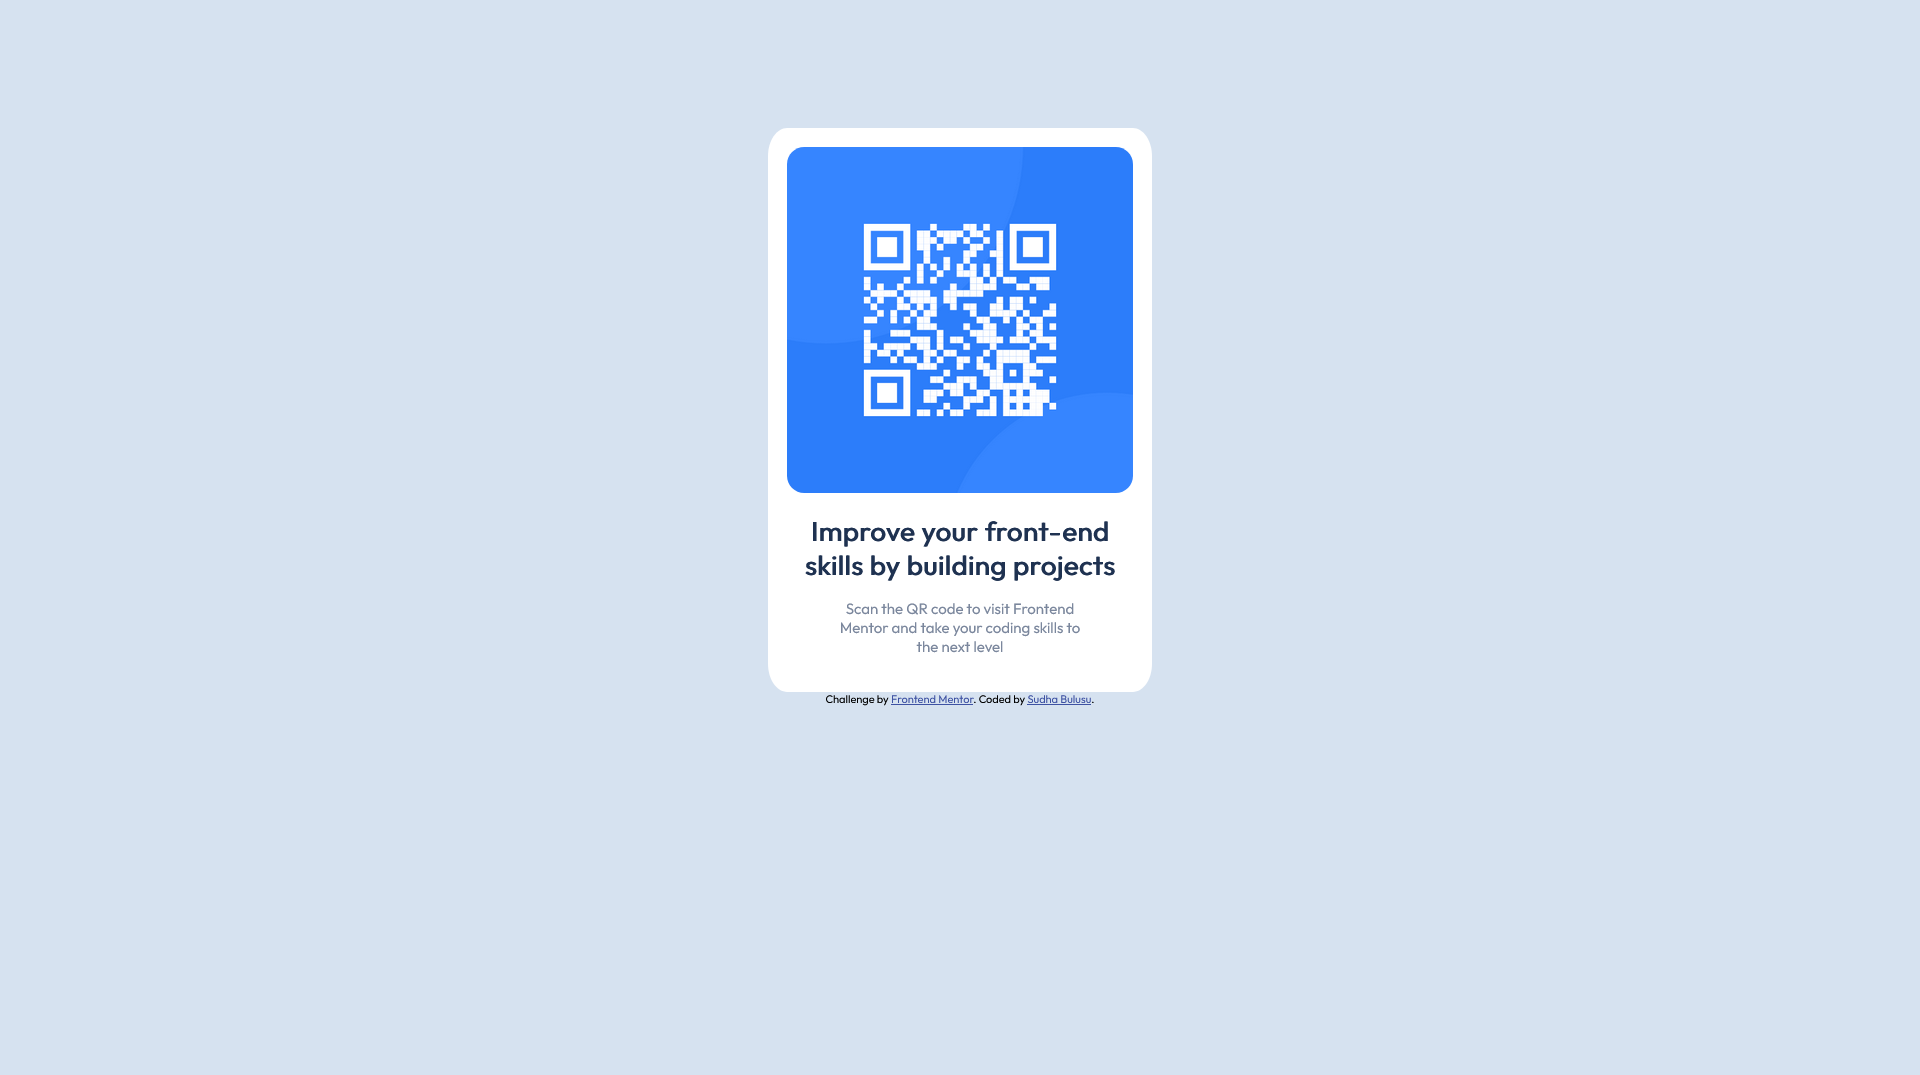
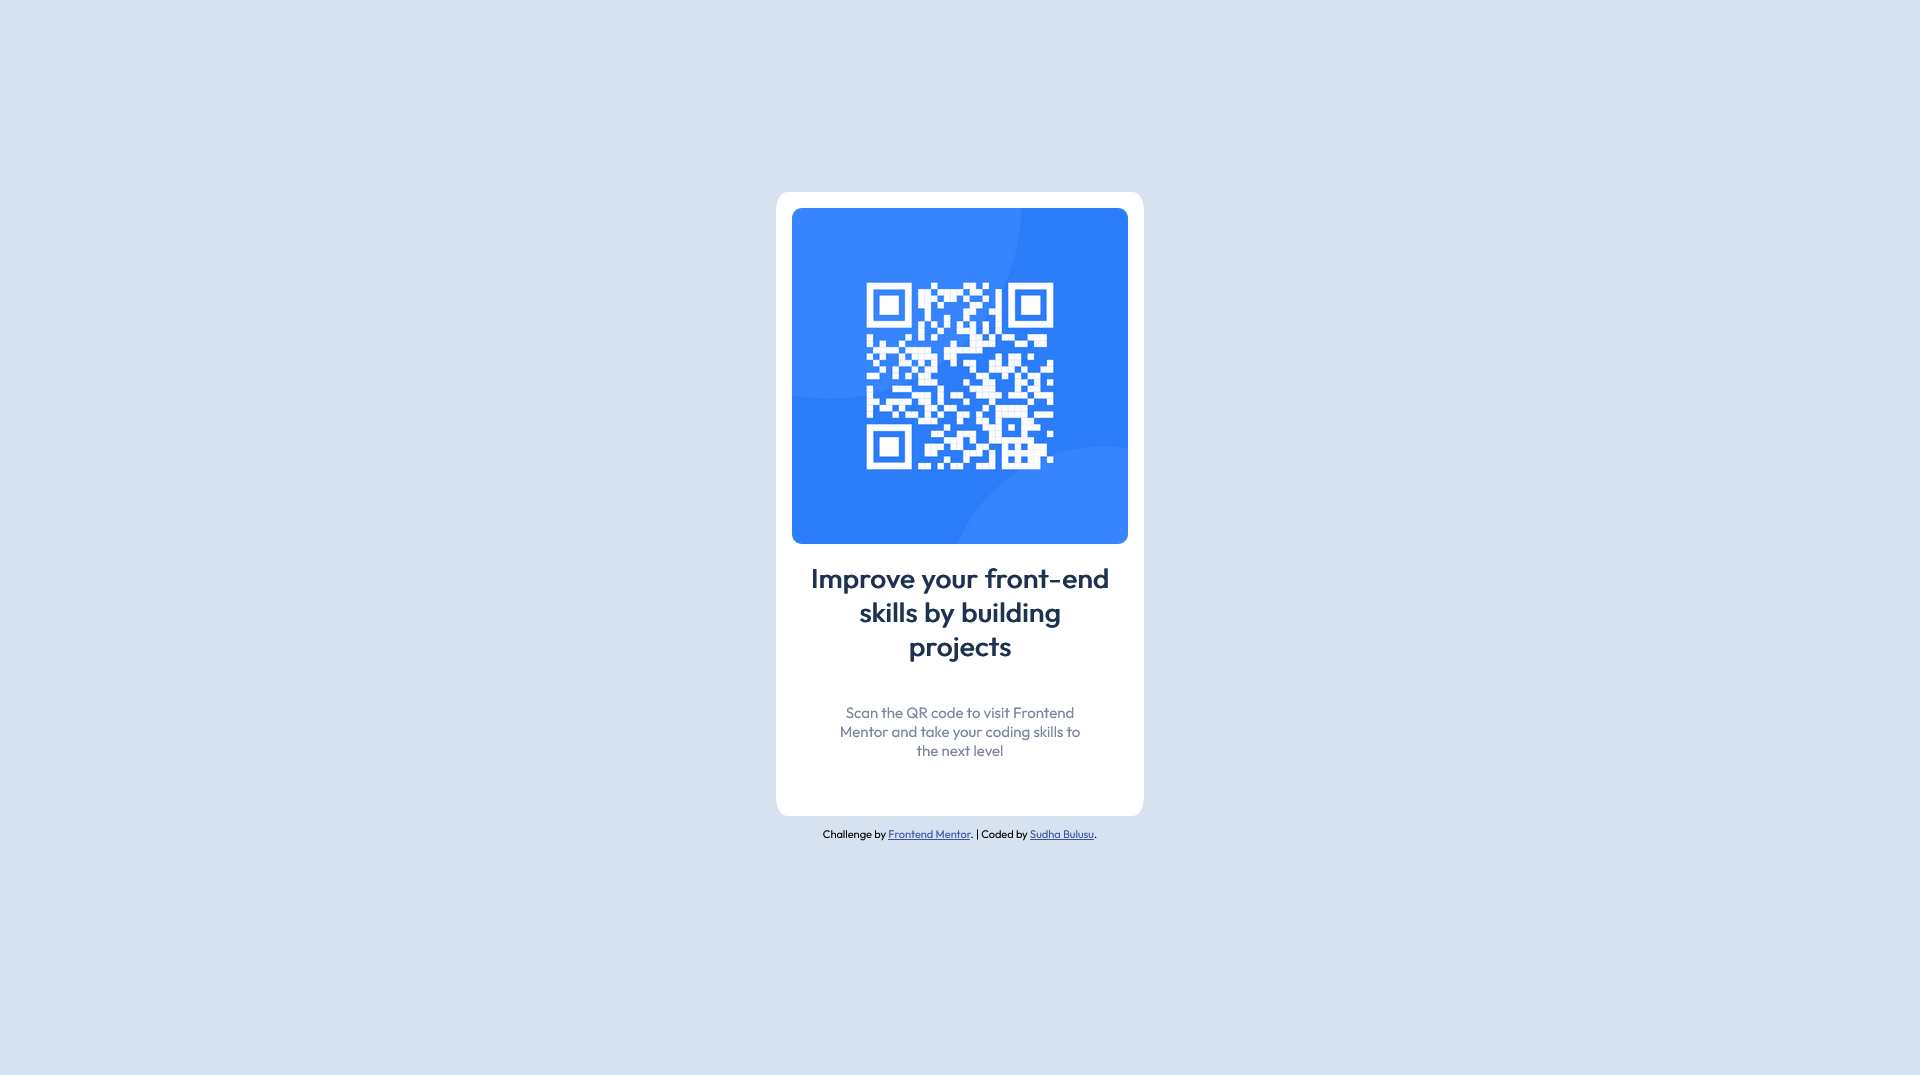
Modified index.html, styles.css, and README.md
Fixed problems with responsive layout

Changed region(s): [[0.375, 0.0921, 0.625, 0.614], [0.4062, 0.6447, 0.5938, 0.7981]]

diff --git a/css/styles.css b/css/styles.css
@@ -1,5 +1,3 @@
-/* Elements' styling */
-
 body {
     background-color: #d6e2f0;
     background-color: hsl(212, 46%, 89%);
@@ -8,10 +6,28 @@ body {
 }
 
 main {
+    display: flex;
     text-align: center;
+    justify-content: center;
+    margin: auto;
+}
+
+.container {
+    display: flex;
+    flex-direction: column;
     align-items: center;
     justify-content: center;
-    padding: 8rem 48rem;
+    max-width: 21rem;
+    background-color: #ffffff;
+    background-color: hsl(0, 0%, 100%);
+    border-radius: 3%;
+    padding: 1rem;
+    margin-top: 10%;
+}
+
+.qr-code {
+    border-radius: 3%;
+    max-width: 100%;
 }
 
 h1 {
@@ -20,23 +36,7 @@ h1 {
     color: hsl(218, 44%, 22%);
     font-weight: 700;
     font-size: 1.7rem;
-    margin: 5%;
-}
-
-/* Classes */
-.container {
-    display: grid;
-    grid-template-columns: 1fr;
-    max-width: 100%;
-    background-color: #ffffff;
-    background-color: hsl(0, 0%, 100%);
-    border-radius: 5%;
-    padding: 5%;
-}
-
-.qr-code {
-    border-radius: 5%;
-    max-width: 100%;
+    margin: 5% 5% 0 5%;
 }
 
 /* Using .9375rem instead of 15px for scalability */
@@ -46,13 +46,14 @@ h1 {
     font-size: .9375rem;
     color: #7b879d;
     color: hsl(220, 15%, 55%);
+    padding: 2.5rem;
     margin: 0;
 }
 
 /* Using .6875rem instead of 11px for scalability */
 .attribution {
-    font-size: .6875rem;
     text-align: center;
+    font-size: .6875rem;
 }
 
 .attribution a {

diff --git a/index.html b/index.html
@@ -18,17 +18,15 @@
     <div class="container">
       <img class="qr-code" src="images/image-qr-code.png" alt="QR Code for FrontendMentor.io">
       <h1>Improve your front-end skills by building projects</h1>
-      <p class="scan-qr-code">
-        Scan the QR code to visit Frontend</p>
-      <p class="scan-qr-code">Mentor and take your coding skills to</p>
-      <p class="scan-qr-code">the next level</p>
-      </p>
-    </div>
-    <div class="attribution">
-      Challenge by <a href="https://www.frontendmentor.io?ref=challenge" target="_blank">Frontend Mentor</a>.
-      Coded by <a href="https://github.com/sudhabulusu" target="_blank">Sudha Bulusu</a>.
+      <p class="scan-qr-code">Scan the QR code to visit Frontend
+        Mentor and take your coding skills to
+        the next level</p>
     </div>
   </main>
+  <div class="attribution">
+    <p>Challenge by <a href="https://www.frontendmentor.io?ref=challenge" target="_blank">Frontend Mentor</a>. | 
+    Coded by <a href="https://github.com/sudhabulusu" target="_blank">Sudha Bulusu</a>.</p>
+  </div>
 </body>
 
 </html>

diff --git a/README.md b/README.md
@@ -38,13 +38,13 @@ My process was to do the HTML first, then the CSS.
 
 - Semantic HTML5 markup
 - CSS custom properties
-- CSS Grid
+- CSS Flex
 
 
 ### What I learned
 
 Some of what I learned:
-- using grid or flexbox to create a responsive display.
+- using flexbox to create a responsive display.
 - using CSS Lint to validate my CSS and clean it up
 - using the W3 HTML validator to check my HTML and clean it up -- I had a minor typo
 prevented my CSS stylesheet link from working. Checking my HTML helped me fix it, and
@@ -65,6 +65,6 @@ then it was much easier to work on refining my solution.
 
 ## Acknowledgments
 
-Thank you to Frontend Mentor and everyone who completed this solution and gave feedback to others. I read through many comments, and they were very helpful. Looking forward to participating in more Frontend Mentor challenges. 
+Thank you to Frontend Mentor and everyone who completed this solution and gave feedback to others. I read through many comments, and they were very helpful. Looking forward to participating in more Frontend Mentor challenges. I'm especially thankful to byKrissK, whose CSS flex code was simple and clear. I had trouble with padding, margins, and width  details of my responsive layout, and her code helped me figure it out.
 
 Thank you to Dr. Angela Yu who teaches The Complete 2023 Web Development Bootcamp course on Udemy. I am taking that course now and found Frontend Mentor through it.
